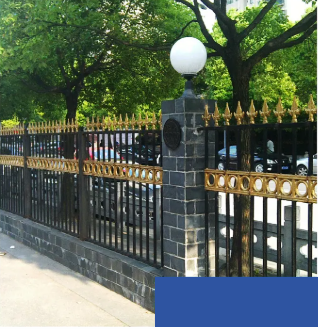
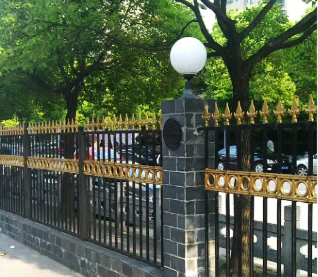
fix: remove embedded guardrail label remnants

diff --git a/app/(frontend)/guardrails/page.tsx b/app/(frontend)/guardrails/page.tsx
@@ -49,7 +49,7 @@ export default async function GuardrailsPage() {
               {category.images.map((src, imageIndex) => (
                 <figure key={src} className="group relative aspect-[4/3] overflow-hidden rounded-xl border bg-[#f3f5f7] shadow-sm">
                   <Image src={src} alt={category.captions[imageIndex] || `${category.title} ${imageIndex + 1}`} fill sizes="(max-width: 640px) 100vw, (max-width: 1024px) 50vw, 33vw" className="object-contain transition-transform duration-500 group-hover:scale-[1.03]" />
-                  {category.captions[imageIndex] ? <figcaption className="absolute inset-x-0 bottom-0 bg-[#244d9b] px-4 py-2 text-sm font-medium text-white shadow-md">{category.captions[imageIndex]}</figcaption> : null}
+                  {category.captions[imageIndex] ? <figcaption className="absolute inset-x-0 bottom-0 z-20 bg-[#244d9b] px-4 py-2 text-sm font-medium text-white shadow-md">{category.captions[imageIndex]}</figcaption> : null}
                 </figure>
               ))}
             </div>
